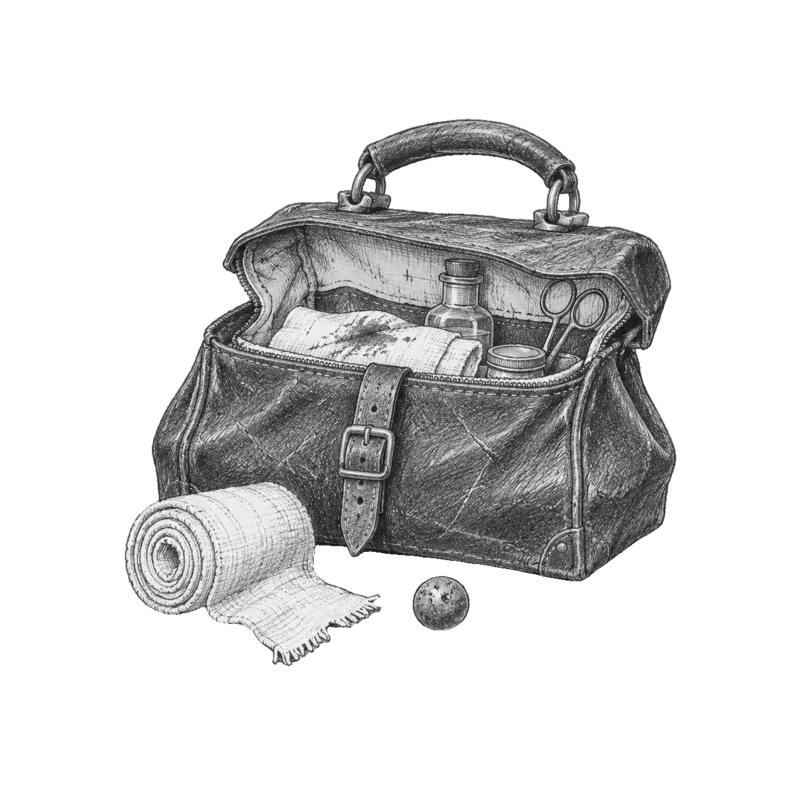
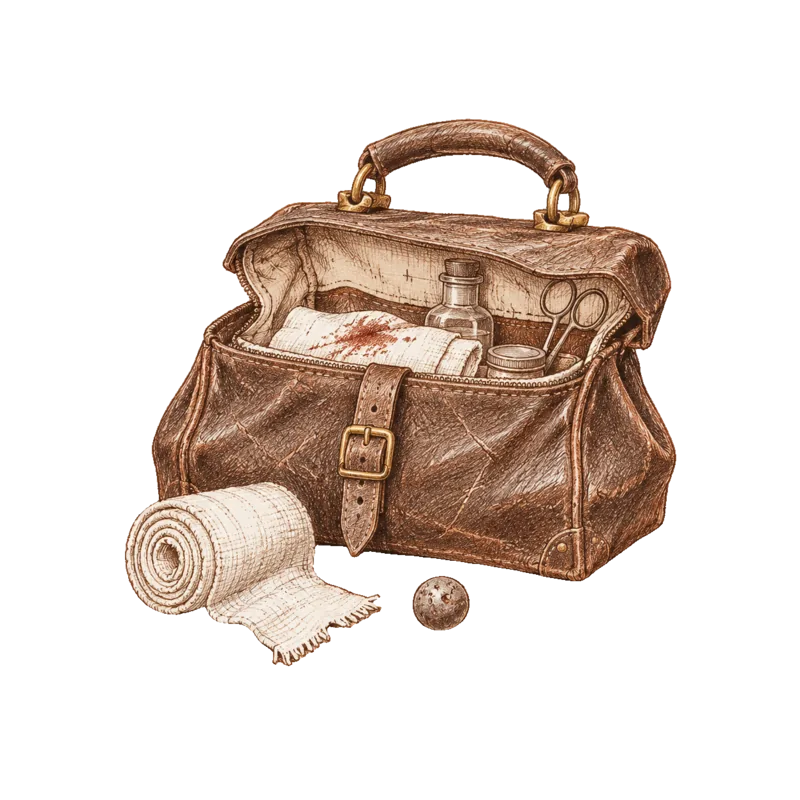
New illustrations in the CanonTracker style (graphite + one signal-orange accent, no books or ledgers); pitch hook art for Happy Days and Zelda; README and submission draft without the sample-provenance paragraph and internal hosts
Claude-Session: https://claude.ai/code/session_018FT5nowQ6S8AfgwKZvpJeF

Changed region(s): [[0.1562, 0.125, 0.8438, 0.8125], [0.3438, 0.8125, 0.375, 0.8438], [0.3125, 0.7812, 0.3438, 0.8125]]

diff --git a/README.md b/README.md
@@ -2,7 +2,7 @@
 
 CanonTracker helps writers and narrative teams keep a story world consistent. Import lore, chapters, scripts or recordings; review AI-proposed facts with their source quotes; then check accepted canon for contradictions and inspect the 1–2 hop impact of a proposed change. People decide what becomes canon. It works for novels, games, screen stories and worldbuilding, solo or in a studio.
 
-Meta AI Developer Hackathon · Startup track. **Demo video:** `VIDEO_URL` · **Live app:** `LIVE_URL` (filled at submission). Staging is LAN/VPN-only; use the local quick start to try it now.
+Meta AI Developer Hackathon · Startup track. **Demo video:** `VIDEO_URL` · **Live app:** `LIVE_URL` (filled at submission). Use the local quick start to try it now.
 
 ## Built during the hackathon (27 Oct–4 Nov 2026)
 
@@ -93,7 +93,6 @@ The model adapter is `server/utils/model.ts`; multi-step Responses calls run in 
 
 - **Sherlock Holmes:** 31 chapters/stories (about 127k words), public-domain Doyle texts, recorded candidates and known continuity slips. Text and illustration credits: [SOURCES.md](server/assets/sherlock-holmes/SOURCES.md).
 
-**Sample provenance:** the recorded sample runs are not Muse output. Broken Tide's and The Ashbell Pass's extraction and rule-check fixtures were written during development by AI coding agents, shaped for the demo beats. Sherlock Holmes's extraction, the critic recordings, the continuity recordings and the live-recorded research fixture were recorded through a stand-in OpenAI-compatible model, **OmniRoute / `codex/gpt-6-luna`**, while Meta credits were pending. The research fixture also contains a hand-written unsafe-links test case. Real Muse responses in the repository are the redacted [Meta contract fixtures](server/assets/meta-fixtures/) and the sample voice transcript from **Muse Voice Transcribe** ([recording note](server/assets/ashbell-pass/recordings.json)). Live mode calls Muse; replay mode does not.
 
 Authenticated `POST /api/demo/load` takes `{ "set": "broken-tide" }`, `lantern-row`, `ashbell-pass` or `sherlock-holmes` and replaces the current project's data (admin and above). Sign up and select a project first; an unauthenticated curl is refused.
 

diff --git a/docs/submission.md b/docs/submission.md
@@ -23,7 +23,7 @@ The app includes studio roles, projects, an entity wiki, canon timelines and gra
 
 The UI shows AI advice; model provenance and tool steps remain inspectable in Agent activity and Metrics. A live error is shown and logged, without falling back to recorded output. The default local mode replays fixtures without an API key and logs `mock:recorded-fixtures` as the model ID.
 
-The recorded sample runs are not Muse output. Broken Tide's and The Ashbell Pass's extraction and rule-check fixtures were written during development by AI coding agents, shaped for the demo beats. Sherlock Holmes's extraction, the critic recordings, the continuity recordings and the live-recorded research fixture were recorded through **OmniRoute / `codex/gpt-6-luna`**, a stand-in OpenAI-compatible model, while Meta credits were pending. The research fixture also has a hand-written unsafe-links test case. The repository's real Muse responses are the redacted [Meta contract fixtures](../server/assets/meta-fixtures/) and the sample voice transcript from Muse Voice Transcribe ([recording note](../server/assets/ashbell-pass/recordings.json)). Live mode calls Muse. Dated observations are in [meta-api-notes.md](meta-api-notes.md); local replay tests do not verify current live Meta availability.
+The recorded sample runs are not Muse output. Broken Tide's and The Ashbell Pass's extraction and rule-check fixtures were written during development by AI coding agents, shaped for the demo beats. Sherlock Holmes's extraction, the critic recordings, the continuity recordings and the live-recorded research fixture were recorded through a stand-in OpenAI-compatible model (not Muse) while Meta credits were pending. The research fixture also has a hand-written unsafe-links test case. The repository's real Muse responses are the redacted [Meta contract fixtures](../server/assets/meta-fixtures/) and the sample voice transcript from Muse Voice Transcribe ([recording note](../server/assets/ashbell-pass/recordings.json)). Live mode calls Muse. Dated observations are in [meta-api-notes.md](meta-api-notes.md); local replay tests do not verify current live Meta availability.
 
 ## What was technically hard
 

diff --git a/scripts/brand/README.md b/scripts/brand/README.md
@@ -15,7 +15,7 @@ The original sources used a warm ground. BiRefNet removed it before optimisation
 
 1. Generate: `OMNIROUTE_KEY="$(pass show <secret-entry> | head -1)" node scripts/brand/generate-art.mjs <source dir> [name…]`. Sources are PNG, 1254×1254; keep them outside `public/`. The gateway gives up after 30 s without a response and the script retries each image three times; long, busy prompts time out more often (the hero prompt was shortened for that reason).
 2. Cut out: send each source to BiRefNet (`POST https://models.example/v1/images/edits`, multipart `model=birefnet`, `image=@<file>`, `response_format=b64_json`; homelab, no key) and save the transparent PNGs in their own folder. The drawings then sit on the page in both themes with no paper plate.
-3. Optimise: `node scripts/brand/optimise-art.mjs <cut-out dir>`. Keeps alpha (a source without alpha falls back to flood-filling its original ground), converts RGB to grayscale, resizes (hero 960px, pitch 800px, spots 400px) and writes WebP quality 82 with alpha quality 90.
+3. Optimise: `node scripts/brand/optimise-art.mjs <cut-out dir>`. Keeps alpha (a source without alpha falls back to flood-filling its original ground), keeps the colours (graphite with one signal-orange accent, drawn that way by the prompts), resizes (hero 960px, pitch 800px, spots 400px) and writes WebP quality 82 with alpha quality 90.
 4. Rebrand existing shipped artwork: `node scripts/brand/optimise-art.mjs --graphite`. Uses ImageMagick `-colorspace Gray -colorspace sRGB` and lossless WebP encoding in place; preserves dimensions and the alpha channel. This was applied to all 19 shipped cutouts on 3 Nov 2026. No image-generation service is needed.
 
 ## Product screenshots (`public/shots/*.webp`)
